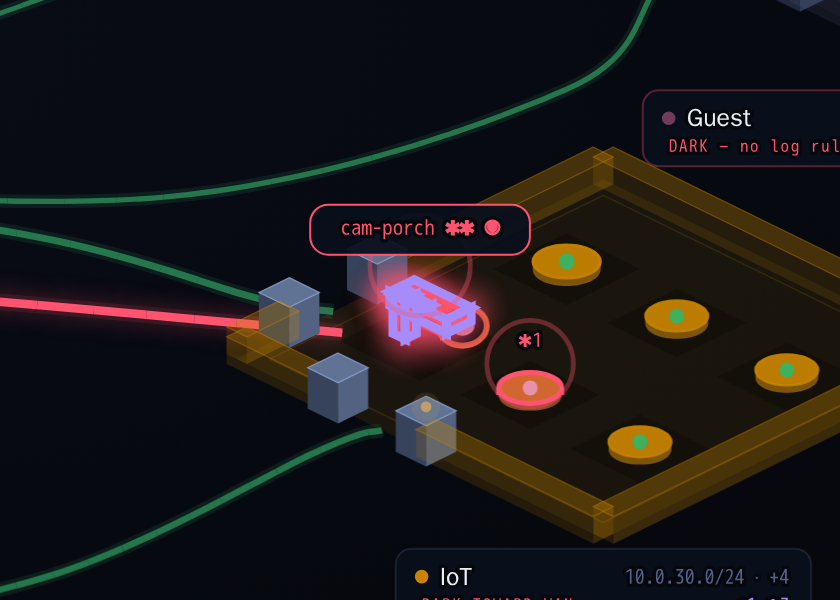
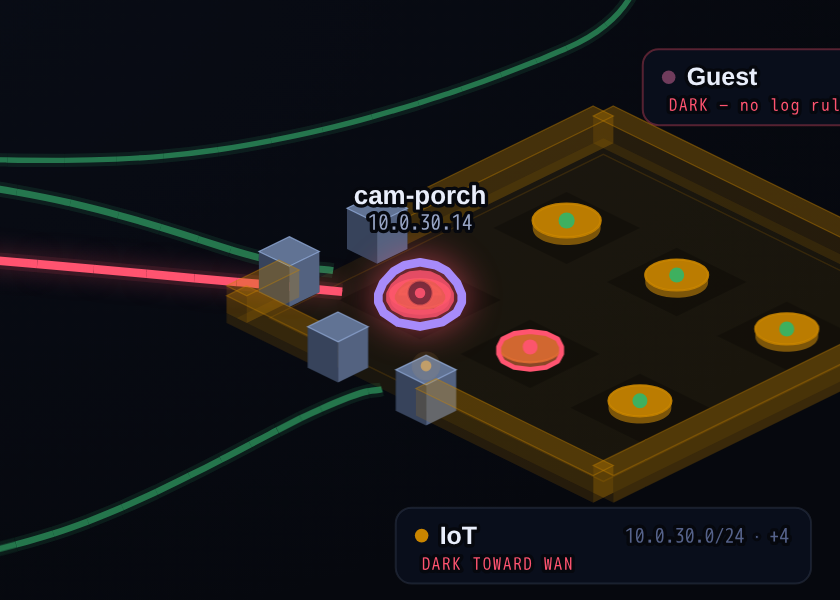
Round 46: finish the marks pass — glyph purge, spike swing, #991/#992 shots
Continue the cut-off WIP, whose convex-hull silhouettes, plain gate
labels (#991) and dome camera (#992) are kept, and whose unclosed
device <g> is balanced. Everything the newest #981 rulings forbid is
now gone: wg0's roof and bridge badges lose their ◉1, the drop pill
reads 'cam-porch · dropped' at every stop that draws it, and the click
cards carry counts as plain coloured words (2 flags · 1 watch), no
glyphs.

Three defects found by reviewing the recaptured shots, all fixed:
the flag restamp <g> carried no --sig of its own, so a flagged
device's status light glazed fallback-green over the red (now
alarm-red); the spike freeze-frames froze an arbitrary animation phase
(capture.mjs pins exact frames via getAnimations now); and the 2s
breathe's swing was invisible in stills, so it widens to rim 0.45→1
with a 1.5px/0.12→9px/0.75 glow, reduced-motion holding a steady
mid-bright state. --sans gains the capture-host 'Liberation Sans'
shim after 'Segoe UI' (#995's idiom) so ratification shots carry real
weights; mockup-only, never for the app.

All eight shots recaptured and each reviewed by eye; README records
the rulings, the choices and the reasoning. Part of #981; draws #991
and #992 for the owner's verdict before any product code moves.

diff --git a/docs/design/concepts/round-46/marks.html b/docs/design/concepts/round-46/marks.html
@@ -39,7 +39,12 @@
     /* second borough: the same lan/srv hues held back a stop, so the
        borough ranks its own districts without minting a new ink */
     --wsh: #34837c; --cam2: #4576bc;
-    --sans: system-ui, -apple-system, "Segoe UI", sans-serif;
+    /* 'Liberation Sans' is a capture-host shim only (#995's idiom):
+       this Linux capture host resolves system-ui to a single-weight
+       face, which hides every weight cue in ratification shots. On the
+       owner's Windows/Firefox, 'Segoe UI' still matches first, exactly
+       as before. Never copy this stack into the app itself. */
+    --sans: -apple-system, "Segoe UI", "Liberation Sans", system-ui, sans-serif;
     --mono: ui-monospace, "SF Mono", Menlo, Consolas, monospace;
   }
   * { box-sizing: border-box; margin: 0; }
@@ -203,9 +208,9 @@
      altogether." No toggle — this is the only direction the page
      draws. ---- */
   .mk-spike-rim { animation: mk-spike-rim 2s ease-in-out infinite; }
-  .mk-spike-glow { filter: blur(2.5px); opacity: 0.4; animation: mk-spike-glow 2s ease-in-out infinite; }
-  @keyframes mk-spike-rim { 0%, 100% { stroke-opacity: 0.6; } 50% { stroke-opacity: 1; } }
-  @keyframes mk-spike-glow { 0%, 100% { stroke-width: 2px; opacity: 0.28; } 50% { stroke-width: 6px; opacity: 0.55; } }
+  .mk-spike-glow { filter: blur(3px); animation: mk-spike-glow 2s ease-in-out infinite; }
+  @keyframes mk-spike-rim { 0%, 100% { stroke-opacity: 0.45; } 50% { stroke-opacity: 1; } }
+  @keyframes mk-spike-glow { 0%, 100% { stroke-width: 1.5px; opacity: 0.12; } 50% { stroke-width: 9px; opacity: 0.75; } }
   @media (prefers-reduced-motion: reduce) {
     /* a pulse cannot reduce to nothing without losing the signal, so it
        holds at the peak state instead of animating to it */
@@ -219,8 +224,8 @@
 <p class="cap"><b>SURVEY</b>the whole estate small — the river along the north edge with its three bridges, six walled districts, two boroughs; devices stand straight on the district plate, no plinth, no height.</p>
 <section class="scene" id="survey" aria-label="Survey: the whole estate as an isometric town — the Internet as a river with the WAN bridge and two tunnel footbridges, districts as walled plates, devices standing straight on the plate with no plinth or height"></section>
 
-<p class="cap"><b>STREET</b>the camera dropped into the LAN district — four devices up close, LAN's wall and its three gates named with the rule each one is, one card open.</p>
-<section class="scene" id="street" aria-label="Street level in the LAN district: four devices at close range with names and addresses, the district wall with its gates labelled by rule, and tom-desktop's card open"></section>
+<p class="cap"><b>STREET</b>the camera dropped into the LAN district — four devices up close, LAN's wall and its gates as plain far-end labels (#991), two click cards with counts as words.</p>
+<section class="scene" id="street" aria-label="Street level in the LAN district: four devices at close range with names and addresses, the district wall with its gates labelled by their far end, and two click cards open"></section>
 
 <p class="cap"><b>ALARM</b>the one road that should not exist — it leaves IoT, crosses town and stops dead at LAN's wall, bollards and a red mark where the default drop caught it.</p>
 <section class="scene" id="alarm" aria-label="The alarm: the unplanned road from cam-porch stopped at the LAN district wall by the default drop, cam-porch lit, Guest unlit for want of a log rule"></section>
@@ -575,7 +580,7 @@ const NODES = [
   { id: 'ether1', name: 'ether1', t: 'post', u: 0, v: 0, R: 3.4, ink: 'var(--accent)',
     roof: 'ether1', roofsub: 'wan bridge · LOGGED' },
   { id: 'wg0', name: 'wg0', t: 'post', u: 0, v: 0, R: 3.0, ink: 'var(--accent)', watch: 1,
-    roof: 'wg0', roofsub: '10.99.0.0/24 · QUIET ◉1' },
+    roof: 'wg0', roofsub: '10.99.0.0/24 · QUIET' },
   { id: 'l2tp', name: 'l2tp', t: 'post', u: 0, v: 0, R: 3.0, ink: 'var(--accent)',
     roof: 'l2tp', roofsub: '1 peer · UP · 0.3/s' }
 ];
@@ -615,7 +620,7 @@ const BRIDGES = [
   { id: 'wan', at: -56, w: 3.4, node: 'ether1', state: 'up', lamps: 2,
     label: 'ether1 → Internet · 203.0.113.7 · LOGGED' },
   { id: 'wg0', at: 8, w: 1.5, node: 'wg0', state: 'quiet', lamps: 0,
-    label: 'wg0 · 10.99.0.0/24 · QUIET ◉1' },
+    label: 'wg0 · 10.99.0.0/24 · QUIET' },
   { id: 'l2tp', at: 36, w: 1.5, node: 'l2tp', state: 'up', lamps: 0, ldy: 30,
     label: 'l2tp · 1 peer · UP · 0.3/s' }
 ];
@@ -646,7 +651,7 @@ const ROADS = [
   /* the unplanned road: out of IoT's wan gate, across the plaza, and
      dead into LAN's wall where nothing lets it through */
   { id: 'unplanned', via: ['@cam-porch', [26, 26], [2, 22], [-26, 20], [-46, 28], [-57, 34]], w: 1.6, k: 'x',
-    stop: 'drop', ports: 'cam-porch ✱ tcp/445', lats: [0.55, 0.9] },
+    stop: 'drop', ports: 'cam-porch · dropped', lats: [0.55, 0.9] },
   /* guest tries the same thing on its own wall */
   { id: 'guest-drop', via: ['@guest-e8b2', [64.5, -8], [61.7, -5.3]], w: 0.9, k: 'd', stop: 'drop' }
 ];
@@ -1058,7 +1063,10 @@ function device(c, u, v, b, opt) {
   if (b.flags) {
     const flagOp = R2(Math.min(0.9, 0.45 + 0.15 * (b.flags - 1)) * 1000) / 1000;
     rimW = R2(Math.min(3, 1 + 0.5 * (b.flags - 1)));
-    inner += '<g style="color:var(--alarm)" opacity="' + flagOp + '"><use href="#' + opt.sid + '-' + b.t + '"/></g>';
+    /* the restamp is a SIBLING of the base stamp, so it inherits no
+       --sig of its own — without one its lights fall back to their
+       neutral colours and glaze the red light below them green */
+    inner += '<g style="color:var(--alarm);--sig:var(--alarm)" opacity="' + flagOp + '"><use href="#' + opt.sid + '-' + b.t + '"/></g>';
     const rimCls = b.spike ? 'mk-alarm mk-spike-rim' : 'mk-alarm';
     if (b.spike) inner += '<path d="' + hullPath(lib.hull) + '" fill="none" stroke="var(--alarm)" stroke-width="' +
       R2(rimW * 1.8) + '" stroke-linejoin="round" class="mk-spike-glow"/>';
@@ -1075,7 +1083,7 @@ function device(c, u, v, b, opt) {
       '" stroke-linejoin="round" stroke-opacity="1" class="mk-watch"/>';
   }
   s += '<g class="dev" style="transform:translate(' + R2(X(c, u)) + 'px,' + R2(Y(c, v, 0)) + 'px)">' +
-       '<g transform="scale(' + k + ')">' + inner + '</g></g>';
+       '<g transform="scale(' + k + ')">' + inner + '</g></g></g>';
   if (opt.fade) s = '<g opacity="0.42">' + s + '</g>';
   if (opt.focus) {
     /* you are standing here */
@@ -1310,14 +1318,15 @@ function render(id) {
   if (boroLabels) boroLabels.forEach((b) => { flat += chipAt(b.lx, b.ly, b.t, 'boro-t'); });
 
   /* #991: the street stop drops the ordinary road port chips entirely
-     ("too busy") — only a road's drop survives there, reworded to one
-     word plus the source, since it isn't standing on the building the
-     drop is at. Survey and alarm are untouched: they still draw every
-     road's ports exactly as before. */
+     ("too busy") — only a road's drop survives there. The drop pill is
+     the same one plain label at every stop, `cam-porch · dropped` (the
+     source named because you are not standing on the building the drop
+     is at); the port detail lives on the alarm callout and the click
+     cards. Other roads' port pills still draw at the alarm stop. */
   if (cfg.labels || cfg.rules) ROADS.forEach((r) => {
     if (!r.ports || !r.lats) return;
     if (id === 'street' && r.stop !== 'drop') return;
-    const label = (id === 'street' && r.stop === 'drop') ? 'cam-porch · dropped' : r.ports;
+    const label = r.ports;
     for (const t of r.lats) {
       const p = roadPoint(r, t), a = roadPoint(r, Math.max(0, t - 0.03)), b = roadPoint(r, Math.min(1, t + 0.03));
       const px = X(c, p[0]), py = Y(c, p[1]);
@@ -1399,14 +1408,14 @@ function chrome(id) {
   h += '<div class="stage"><svg id="svg-' + id + '" viewBox="0 0 1400 700" role="img" aria-label="' + id + ' camera on the estate"></svg></div>';
   if (cfg.card) h += '<div class="hovercard" id="hc" aria-label="tom-desktop card"><div class="hc-n">tom-desktop</div>' +
     '<div class="hc-i">10.0.10.21 · 3 roads · workstation</div>' +
-    '<div class="hc-r"><span class="w">watch ◉</span><span class="p">:445 :5001 :53</span></div></div>' +
+    '<div class="hc-r"><span class="w">1 watch</span><span class="p">:445 :5001 :53</span></div></div>' +
     /* #981: the click card is where a marked building's counts live now
        — cam-porch is IoT's, off this camera's frame (see capture.mjs),
        so its card floats free with no leader line, just to show the
        idiom's new second line */
     '<div class="hovercard" id="hc-cam" aria-label="cam-porch card"><div class="hc-n">cam-porch</div>' +
     '<div class="hc-i">10.0.30.14 · 1 road · camera</div>' +
-    '<div class="hc-r"><span class="f">⚑ 2 flags</span><span class="p"> · </span><span class="w">◉ 1 watch</span></div></div>';
+    '<div class="hc-r"><span class="f">2 flags</span><span class="p"> · </span><span class="w">1 watch</span></div></div>';
   h += '<div class="wlens2">' + LENSES.map((l) => '<span class="' + (on(l) ? 'on' : '') + '"' +
     (l.indexOf('flags') === 0 ? ' style="color:var(--alarm)"' : '') + '>' + l + '</span>').join('') + '</div>';
   h += '<div class="alt" style="flex-direction:column;gap:6px">' +

diff --git a/docs/design/concepts/round-46/README.md b/docs/design/concepts/round-46/README.md
@@ -56,6 +56,27 @@ flag is an activity spike — activity is the one flag kind that is
 *happening now*, so motion fits it and nothing else; other flags stay a
 still red. `marks.html` draws direction C only — no toggle, one page.
 
+Two more rulings landed on that drawing's first crops, still
+2026-09-06. On an IoT puck still wearing round 40's halo ring and `✱1`
+glyph:
+
+> I said to remove these rings with numbers. Get rid of them
+> completely.
+
+Applied to the whole page: no halo, no count glyph, no tally glyph on
+any building, card, pill or label, at any stop — wg0's roof label and
+bridge badge lost their `◉1` too. Counts exist only as words on the
+click card. And on a mark that stroked every face of every box the
+symbol is built from:
+
+> These overlapping planes are weird. The outlines are supposed to
+> just be lines … I can't even tell what you're trying to show me.
+
+A mark is now ONE line round the symbol's silhouette (see **Choices**).
+The same pass also redraws the street pills (#991) and the camera as a
+small home CCTV dome (#992) — both drawn here first, so the owner rules
+on a picture before any product code moves.
+
 ### The rules
 
 - Flagged (`b.flags > 0`): the device symbol itself — every shape it is
@@ -65,16 +86,22 @@ still red. `marks.html` draws direction C only — no toggle, one page.
   the same ink, width `min(3, 1 + 0.5*(flags-1))`. Unflagged neighbours
   keep their own district colour untouched. The plinth underneath is
   gone — there is no plinth, and nothing marks it.
-- Watched (`b.watch > 0`): the device symbol's own outline strokes in
-  `--watch`, width `min(4, 1.5 + 0.75*(watch-1))`, scaled up 1.09× from
-  the device's own centre so it reads as a touch proud of the flag rim
-  on a building that carries both.
+- Watched (`b.watch > 0`): the device symbol's silhouette strokes once
+  in `--watch`, width `min(4, 1.5 + 0.75*(watch-1))`. On a building
+  that also carries flags, the watch line is pushed outward from the
+  silhouette by half of both stroke widths plus a hair, so it sits a
+  touch proud of the flag rim — side by side, never on top of it.
 - Activity spike (`b.spike`): a flagged building whose open flag is an
-  activity spike also pulses — its rim's opacity breathes 0.6→1→0.6 and
-  a soft glow alongside it breathes too, both on a 2s ease-in-out loop.
+  activity spike also pulses — its rim's opacity breathes 0.45→1→0.45
+  and a soft glow alongside it swells from almost nothing to a wide
+  blurred bloom (1.5px at 0.12 → 9px at 0.75), both on a 2s ease-in-out
+  loop. The swing is deliberately wide: a first draft breathed
+  0.6→1/2px→6px and the dim and bright freeze-frames were nearly
+  indistinguishable, which is no way to ratify a throb from stills.
   The red fill itself does not animate; only the rim and the glow do.
-  Under `prefers-reduced-motion`, the pulse is dropped for a steady rim
-  and glow held at the bright end, not fully switched off — the mark
+  Under `prefers-reduced-motion`, the pulse is dropped for a steady
+  full-opacity rim and a steady mid-bright glow (6px at 0.55), not
+  fully switched off — the mark
   would otherwise carry no signal at all under a rule that only exists
   to answer "is this happening now".
 - No height anywhere, for anything: every device — building, router,
@@ -85,16 +112,19 @@ still red. `marks.html` draws direction C only — no toggle, one page.
 - District plates and name pills are unchanged from round 40 — the red
   house in a green district is the signal, not a second badge.
 - The street scene's click card (round 40's `.hovercard` idiom) gains
-  a second line on a marked building — cam-porch's reads `⚑ 2 flags ·
-  ◉ 1 watch`, ⚑ and its count in `--alarm`, ◉ and its count in
-  `--watch`.
+  a counts line on a marked building, as plain words — cam-porch's
+  reads `2 flags · 1 watch`, the flag words in `--alarm`, the watch
+  words in `--watch`, no ⚑/◉ glyphs ("counts exist only as words on
+  the click card"). tom-desktop's watch row reads `1 watch` the same
+  way.
 
 ### What's on the map
 
 Same hosts as round 40: cam-porch (2 flags, 1 watch — IoT, the alarm
 scene's own subject), laptop-anna and tv-lounge (1 flag each, LAN),
 doorbell (1 flag, IoT), cam-gate (1 flag, Cams), nas (watch only,
-Servers). Added: **pihole** (Servers — plain green, previously
+Servers), and the wg0 gateway post (watch only — its old `◉1` roof
+badge is gone, the purple silhouette is the signal now). Added: **pihole** (Servers — plain green, previously
 carried no marks) now carries 3 flags, so the opacity step from
 cam-porch's 0.6 to pihole's 0.75 is visible on the same page without
 touching the 0.9 cap. cam-porch and pihole also each carry the
@@ -102,17 +132,18 @@ activity-spike pulse (see **Choices** for why these two).
 
 ### Choices the spec left open
 
-- **How a multi-shape symbol's outline is drawn**: the library builds
-  each symbol from several boxes and discs (a workstation is a tower
-  plus a monitor; a camera is a post, an arm and a body) with no
-  boolean union available to fuse them into one path. Both the flag rim
-  and the watch outline stroke *every* constituent shape the symbol is
-  actually built from instead — where two are adjacent (the laptop's
-  base and lid, the camera's post/arm/body) the shared seam gets a
-  double line, but the assembly reads as one outline in every case
-  drawn. `outlineParts()` in `marks.html` does this generically from
-  the same box/disc objects the visible symbol is stamped from, so it
-  never drifts out of sync with the artwork.
+- **How a multi-shape symbol's outline is drawn**: one convex-hull
+  silhouette. The library builds each symbol from several boxes and
+  discs with no boolean union available to fuse them into one path; the
+  first attempt stroked every constituent shape and the owner rejected
+  it ("overlapping planes … I can't even tell what you're trying to
+  show me"). Now every part contributes its corners (a disc samples its
+  rim; the laptop's lid its four points) and Andrew's monotone chain —
+  the same hull the borough ring already used — turns them into one
+  polygon, stroked once (`hullPointsFor()`/`convexHull()` in
+  `marks.html`). A hull cannot follow a concave silhouette (the gap
+  between a workstation's tower and monitor is bridged), but one clean
+  line that slightly rounds the shape beats a cage of true edges.
 - **The ground shadow**: now that there is no plinth to cast one, each
   device keeps the soft dark diamond that used to sit under the plinth,
   sized to the device's own footprint radius — the closest thing the
@@ -129,11 +160,34 @@ activity-spike pulse (see **Choices** for why these two).
   — both already the flagged hosts the capture crops sit closest to, so
   the pulse is checkable in the same shots that show the opacity step
   and the device-not-plinth correction.
-- **The watch outline's "a touch proud"**: scaled 1.09× around the
-  device's own centre, rather than the plinth version's fixed 1.6-unit
-  margin — device symbols vary far more in local size than the plinths
-  did (a puck and a router chassis are not close), so a proportional
-  offset holds up across all of them where a fixed one would not.
+- **The watch outline's "a touch proud"**: the hull's points pushed
+  outward from its centroid by `rimW/2 + watchW/2 + 0.6px`
+  (`offsetPoly()`), rather than scaling the whole mark — a scale factor
+  moves a big symbol's line further than a small one's, where an offset
+  in stroke widths puts the two lines side by side at every size.
+- **The gate pill's one label (#991)**: the far end's display name is
+  read from the rule text's `→ <name>` rather than a second id-to-name
+  table — the rule strings already spell every far end out in full, so
+  the pill can never drift from the rule it abbreviates. 13px mono in a
+  24px pill; the rule number, text and ports move to the gate's click
+  card when this is built.
+- **The drop pill (#991)**: one plain label, `cam-porch · dropped`, at
+  every stop that draws it (street and alarm) — the source is named
+  because you are not standing on the building the drop is at; the port
+  detail lives on the alarm callout and the click cards.
+- **The dome camera's "radial gradient" (#992)**: approximated with two
+  flat layers (a currentColor dome, a void-dark smoked centre) rather
+  than a real SVG `<radialGradient>` — a gradient's stops live in
+  `<defs>` and do not inherit the colour set where the symbol is
+  `<use>`d, so a true gradient would paint every district's camera one
+  fixed colour instead of recolouring per district like every other
+  symbol. No post, no arm; base disc, dome, one lens dot, one highlight
+  arc.
+- **The capture-host font shim**: `'Liberation Sans'` sits in `--sans`
+  after `'Segoe UI'` (#995's idiom) so this Linux capture host renders
+  real weights where its own `system-ui` is a single face; the owner's
+  Windows/Firefox still matches `'Segoe UI'` first, unchanged. The shim
+  is mockup-only and must never be copied into the app.
 - **Which host demonstrates 3 flags**: pihole — a plain, previously
   unmarked host in Servers (green), picked to avoid disturbing the
   already-marked cast that demonstrates the 1-flag/2-flag/watch-only
@@ -162,6 +216,11 @@ C, second draft: the marks moved to the device symbol as asked, but a
 "we dont need a pedestal … Just drop the height concept altogether …
 It doesn't work, it looks rubbish with things sat on cubes." The plinth
 is gone outright; every device stands straight on the district plate.
+
+C, third draft: an IoT puck still wore round 40's halo ring and `✱1`
+glyph ("remove these rings with numbers. Get rid of them completely"),
+and the outline stroked every face of every part ("overlapping
+planes"). Both purged: no glyph anywhere, one silhouette line.
 
 ## Capture
 
